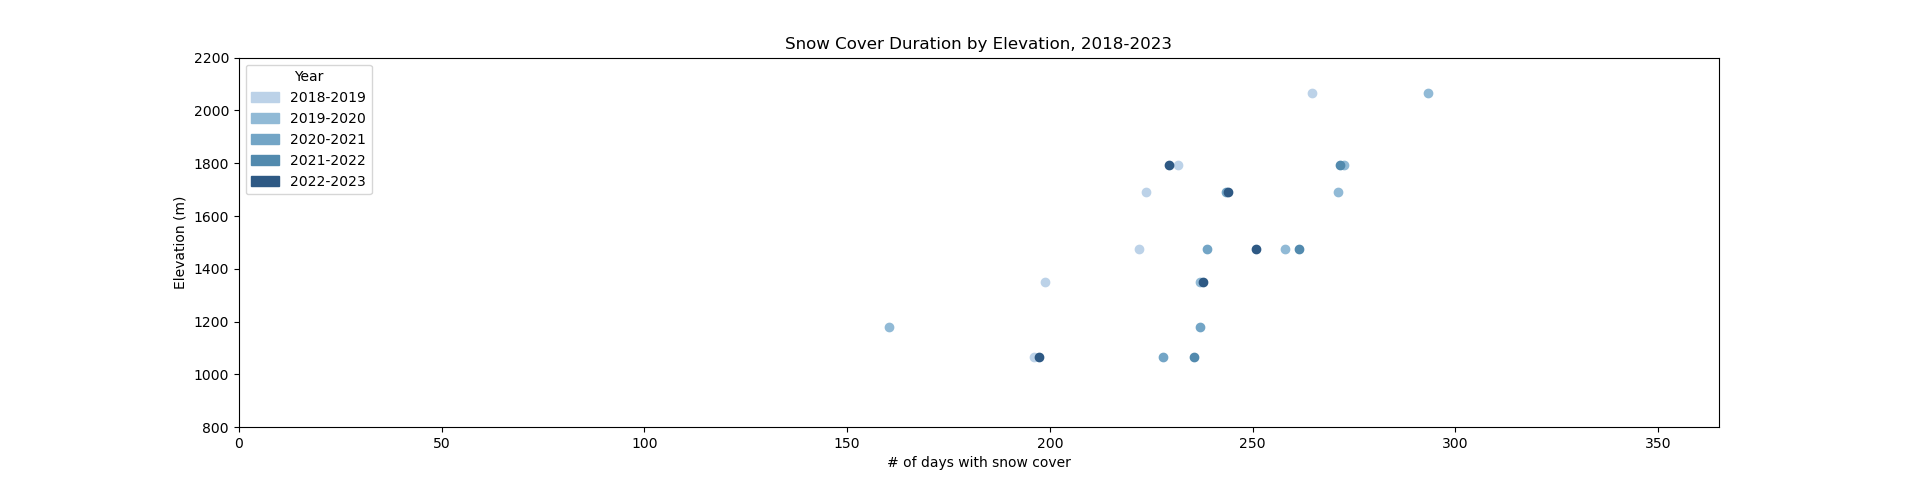
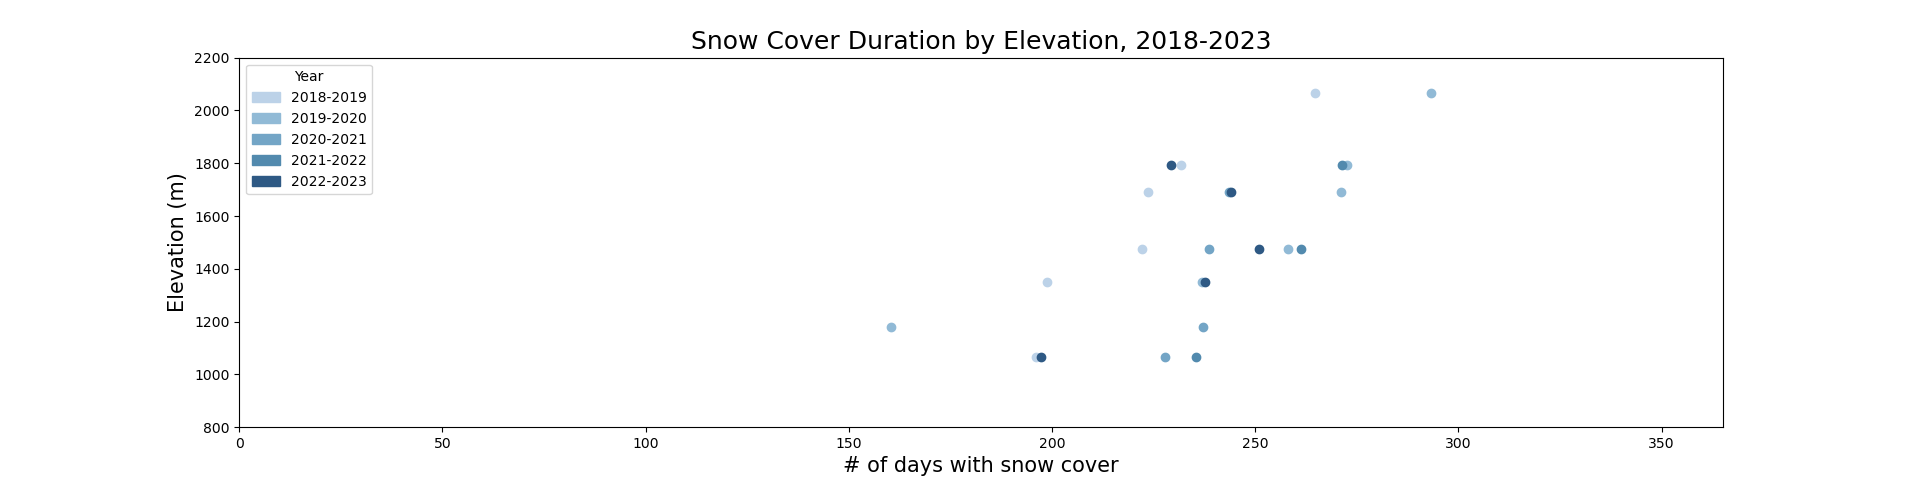
graph changes

diff --git a/grapher.py b/grapher.py
@@ -22,9 +22,9 @@ sites = [file for file in os.listdir(directory) if file.endswith(".pkl")]
 #plt.title(site)
 
 plt.figure()
-plt.title('Snow Cover Duration by Elevation, 2018-2023')
-plt.xlabel('Year')
-plt.ylabel('Elevation (m)')
+plt.title('Snow Cover Duration by Elevation, 2018-2023', fontsize=18)
+plt.xlabel('Year', fontsize=15)
+plt.ylabel('Elevation (m)', fontsize=15)
 plt.ylim(800, 2200)
 
 for site in sites:

diff --git a/grapher_ind.py b/grapher_ind.py
@@ -37,9 +37,9 @@ year_color = {
 
 
 plt.figure()
-plt.title('Snow Cover Duration by Elevation, 2018-2023')
-plt.xlabel('# of days with snow cover')
-plt.ylabel('Elevation (m)')
+plt.title('Snow Cover Duration by Elevation, 2018-2023', fontsize=18)
+plt.xlabel('# of days with snow cover', fontsize=15)
+plt.ylabel('Elevation (m)', fontsize=15)
 plt.xlim(0, 365)
 plt.ylim(800, 2200)
 
